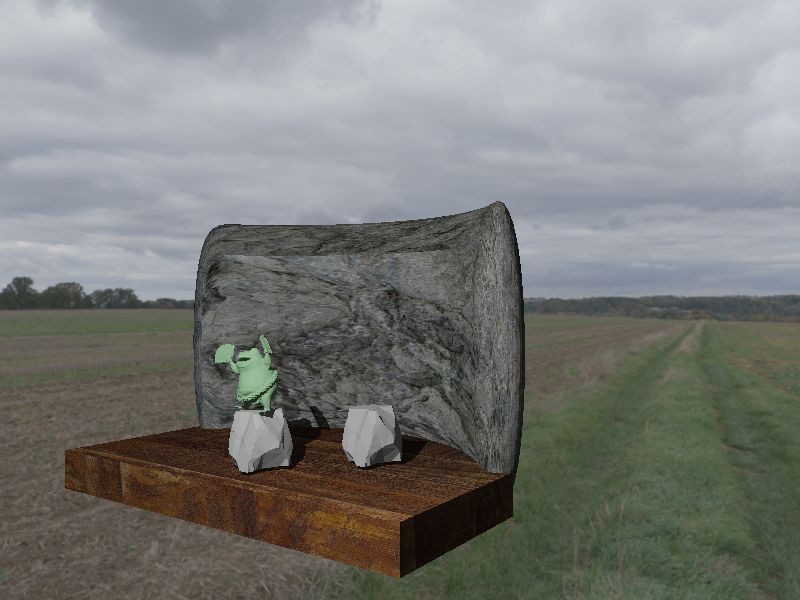
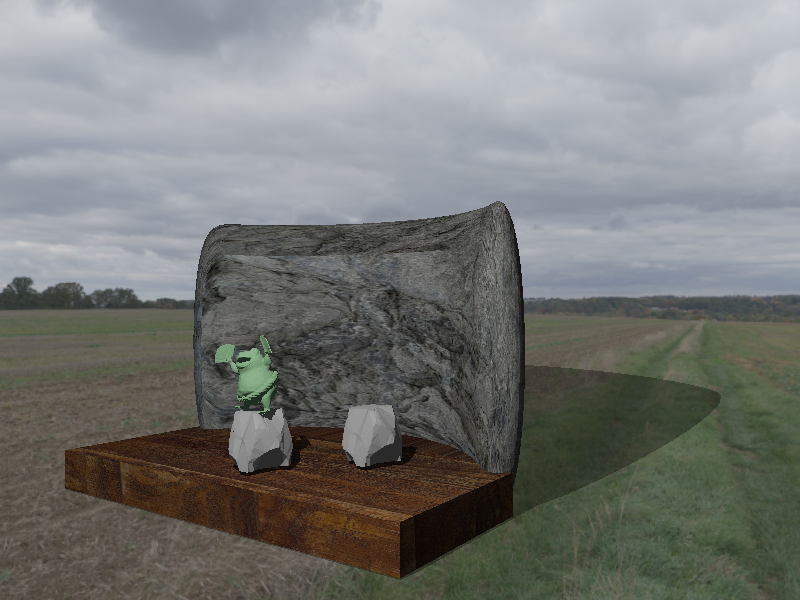
made stage look realistic with shadows

diff --git a/src/RayTracer.cpp b/src/RayTracer.cpp
@@ -48,6 +48,16 @@ bool RayTracer::isOccluded(const RTScene& scene, const glm::vec3& p, const glm::
   return intersectScene(scene, ro, rd, h, distToL - 1e-3f);
 }
 
+static bool intersectPlaneY(const glm::vec3& ro, const glm::vec3& rd, float y, float& tOut) {
+  float denom = rd.y;
+  if (std::abs(denom) < 1e-6f) return false;
+  float t = (y - ro.y) / denom;
+  if (t <= 1e-4f) return false;
+  tOut = t;
+  return true;
+}
+
+
 std::vector<glm::vec3> RayTracer::render(const RTScene& scene, const RTCamera& cam, const RTLight& light) const {
   std::vector<glm::vec3> img(_w * _h, glm::vec3(0));
 
@@ -59,6 +69,7 @@ std::vector<glm::vec3> RayTracer::render(const RTScene& scene, const RTCamera& c
       float px = ( (x + 0.5f) / float(_w) ) * 2.f - 1.f;
       float py = 1.f - ( (y + 0.5f) / float(_h) ) * 2.f;
 
+
       px *= cam.aspect * tanHalf;
       py *= tanHalf;
 
@@ -67,11 +78,93 @@ std::vector<glm::vec3> RayTracer::render(const RTScene& scene, const RTCamera& c
       glm::vec3 rd = glm::normalize(glm::vec3(cam.invView * glm::vec4(dirCam, 0.f)));
       glm::vec3 ro = cam.pos;
 
-      Hit hit;
+      // Hit hit;
+      // glm::vec3 col = background(rd);
+
+      // if (intersectScene(scene, ro, rd, hit, 1e30f)) {
+      //   const RTMaterial& mat = scene.mats[std::max(0, hit.matId)];
+
+      //   glm::vec3 Lvec = light.position - hit.p;
+      //   float dist2 = glm::dot(Lvec, Lvec);
+      //   float dist  = std::sqrt(dist2);
+      //   glm::vec3 wi = Lvec / std::max(dist, 1e-6f);
+
+      //   float ndotl = std::max(0.f, glm::dot(hit.n, wi));
+
+      //   float atten = 1.0f / std::max(dist2, 1e-4f);
+
+      //   glm::vec3 Li = light.color * (light.intensity * atten);
+
+      //   float vis = isOccluded(scene, hit.p, hit.n, light.position) ? 0.f : 1.f;
+
+      //   glm::vec3 albedo = mat.albedo;
+      //   if (mat.useTexture && mat.texId >= 0) {
+      //       albedo *= scene.textures[mat.texId].sample(hit.uv);
+      //   }
+      //   // small ambient to avoid pure black (temporary; later replaced by env lighting)
+      //   glm::vec3 ambient = 0.03f * albedo;
+
+      //   col = ambient + albedo * Li * ndotl * vis;
+
+      // }
+
+      // img[y * _w + x] = col;
+
+    // }
+
+      int pix = y * _w + x;
+
       glm::vec3 col = background(rd);
 
-      if (intersectScene(scene, ro, rd, hit, 1e30f)) {
-        const RTMaterial& mat = scene.mats[std::max(0, hit.matId)];
+      Hit hitTri;
+      bool hitScene = intersectScene(scene, ro, rd, hitTri, 1e30f);
+
+      float groundY = -1.925f;
+      float tPlane;
+      bool hitPlane = intersectPlaneY(ro, rd, groundY, tPlane);
+
+      if (!hitScene && !hitPlane) {
+        img[pix] = col;
+        continue;
+      }
+
+      Hit hit;
+      bool hitIsPlane = false;
+
+      if (hitPlane && (!hitScene || tPlane < hitTri.t)) {
+        hitIsPlane = true;
+        hit.t = tPlane;
+        hit.p = ro + tPlane * rd;
+        hit.n = glm::vec3(0,1,0);
+        hit.uv = glm::vec2(0.0f);
+        hit.matId = -1;
+      } else {
+        hit = hitTri;
+      }
+
+      if (hitIsPlane) {
+        if (rd.y >= 0.0f) {
+          img[pix] = background(rd);
+          continue;
+        }
+
+        glm::vec3 bg = background(rd);
+
+        bool occ = isOccluded(scene, hit.p, hit.n, light.position);
+        float vis = occ ? 0.0f : 1.0f;
+
+        float strength = 0.6f;
+        float factor = 1.0f - strength * (1.0f - vis);
+
+        img[pix] = bg * factor;
+        continue;
+        // float vis = isOccluded(scene, hit.p, hit.n, light.position) ? 0.0f : 1.0f;
+        // img[pix] = glm::vec3(vis); // white=lit, black=shadow
+        // continue;
+      }
+
+      {
+        const RTMaterial& mat = scene.mats[hit.matId];
 
         glm::vec3 Lvec = light.position - hit.p;
         float dist2 = glm::dot(Lvec, Lvec);
@@ -79,28 +172,24 @@ std::vector<glm::vec3> RayTracer::render(const RTScene& scene, const RTCamera& c
         glm::vec3 wi = Lvec / std::max(dist, 1e-6f);
 
         float ndotl = std::max(0.f, glm::dot(hit.n, wi));
-
         float atten = 1.0f / std::max(dist2, 1e-4f);
-
         glm::vec3 Li = light.color * (light.intensity * atten);
 
         float vis = isOccluded(scene, hit.p, hit.n, light.position) ? 0.f : 1.f;
 
         glm::vec3 albedo = mat.albedo;
         if (mat.useTexture && mat.texId >= 0) {
-            albedo *= scene.textures[mat.texId].sample(hit.uv);
+          albedo *= scene.textures[mat.texId].sample(hit.uv);
         }
-        // small ambient to avoid pure black (temporary; later replaced by env lighting)
-        glm::vec3 ambient = 0.03f * albedo;
 
+        glm::vec3 ambient = 0.03f * albedo;
         col = ambient + albedo * Li * ndotl * vis;
 
+        img[pix] = col;
       }
-
-      img[y * _w + x] = col;
-
     }
   }
+
   return img;
 }
 

diff --git a/src/main.cpp b/src/main.cpp
@@ -74,7 +74,6 @@ float g_appTimer = 0.0;
 float g_appTimerLastColckTime;
 bool g_appTimerStoppedP = true;
 
-// TODO: textures
 unsigned int g_availableTextureSlot = 0;
 
 //sky view
@@ -304,7 +303,6 @@ struct Scene {
   {
 
     //<<<<<<<<<<<<<<<<<<<<<<<<<<<<<<<<<<<<<<<<<<<<<<<<<<<<<<<<<<<<<<<<<<<<<<<<<<
-    // TODO: first, render the shadow maps
     glEnable(GL_CULL_FACE);
 
     // shadomMapShader->use();
@@ -313,7 +311,6 @@ struct Scene {
     //   light.setupCameraForShadowMapping(shadomMapShader, scene_center, scene_radius*1.5f);
     //   light.bindShadowMap();
 
-    //   // TODO: render the objects in the scene
 
     //   if(saveShadowMapsPpm) {
     //     light.shadowMap.savePpmFile(std::string("shadom_map_")+std::to_string(i)+std::string(".ppm"));
@@ -324,7 +321,6 @@ struct Scene {
     //>>>>>>>>>>>>>>>>>>>>>>>>>>>>>>>>>>>>>>>>>>>>>>>>>>>>>>>>>>>>>>>>>>>>>>>>>>
 
     //<<<<<<<<<<<<<<<<<<<<<<<<<<<<<<<<<<<<<<<<<<<<<<<<<<<<<<<<<<<<<<<<<<<<<<<<<<
-    // TODO: second, render the scene
     glBindFramebuffer(GL_FRAMEBUFFER, 0);
     glViewport(0, 0, g_windowWidth, g_windowHeight);
     glClear(GL_COLOR_BUFFER_BIT | GL_DEPTH_BUFFER_BIT); // Erase the color and z buffers.
@@ -379,7 +375,7 @@ struct Scene {
 
 
     // back-wall
-    mainShader->set("material.albedo", glm::vec3(0.29, 0.51, 0.82)); // default value if the texture was not loaded
+    mainShader->set("material.albedo", glm::vec3(0.29, 0.51, 0.82));
     mainShader->set("modelMat", backRockMat);
     mainShader->set("normMat", glm::mat3(glm::inverseTranspose(backRockMat)));
 
@@ -416,9 +412,7 @@ struct Scene {
       mainShader->set("material.albedo", glm::vec3(0.6f, 0.6f, 0.6f));
       mainShader->set("modelMat", M);
       mainShader->set("normMat", glm::mat3(glm::inverseTranspose(M)));
-      // glDisable(GL_CULL_FACE);
       rock->render();
-      // glEnable(GL_CULL_FACE);
     };
     drawRock(rockMat1);
     drawRock(rockMat2);
@@ -701,7 +695,6 @@ void initScene(const std::string &meshFilename)
     g_scene.frogMat = stageTranslate * glm::translate(glm::mat4(1.0f), glm::vec3(-1.2f, -0.46f, 1.95f)) * frogRotate * glm::scale(glm::mat4(1.0f), glm::vec3(0.015f));
   }
 
-  // TODO: Load and setup textures
   GLuint back_rockTex = loadTextureFromFileToGPU("data/rock_back_texture.png");
   g_scene.back_rockTexture = back_rockTex;
 
@@ -741,7 +734,7 @@ void initScene(const std::string &meshFilename)
   g_scene.lights.push_back(Light());
   Light &L = g_scene.lights[0];
 
-  L.position  = glm::vec3(-2.0f, 1.1f, -3.5f);
+  L.position  = glm::vec3(-2.0f, 2.1f, -3.5f);
   L.color     = glm::vec3(1.0f, 1.0f, 1.0f);
   L.intensity = 1.0f;
 
@@ -898,6 +891,14 @@ int main(int argc, char **argv)
       rt.mats.back().useTexture = false;
       rt.mats.back().texId = -1;
 
+      // ground
+      int matGround = (int)rt.mats.size();
+      rt.mats.push_back(RTMaterial());
+      rt.mats.back().albedo = glm::vec3(1.0f);
+      rt.mats.back().shadowCatcher = true;
+      rt.mats.back().useTexture = false;
+      rt.mats.back().texId = -1;
+
       appendMeshToRTScene(rt, *g_scene.back_rock, g_scene.backRockMat, matWall);
       appendMeshToRTScene(rt, *g_scene.stage, g_scene.stageMat, matStage);
       appendMeshToRTScene(rt, *g_scene.rock, g_scene.rockMat1, matRock);
@@ -916,7 +917,7 @@ int main(int argc, char **argv)
       glm::vec3 forward = -glm::vec3(invV[2]);
 
       RTLight L;
-      L.position  = cam.pos + (-1.5f)*right + (1.1f)*up + (3.0f)*forward;
+      L.position  = cam.pos + (-1.5f)*right + (2.1f)*up + (3.0f)*forward;
       L.color     = glm::vec3(1.f);
       L.intensity = 20.0f;
       
@@ -928,6 +929,7 @@ int main(int argc, char **argv)
       RayTracer tracer(W, H);
       tracer.setEnvMap(&env);
       tracer.buildBVH(rt);
+      tracer.setGround(-1.925f, matGround, 0.6f);
 
       auto pixels = tracer.render(rt, cam, L);
       RayTracer::savePPM("raytrace.ppm", pixels, W, H);

diff --git a/src/RayTracer.h b/src/RayTracer.h
@@ -11,7 +11,7 @@ struct RTMaterial {
   glm::vec3 albedo = glm::vec3(0.8f);
   bool useTexture = false;
   int texId = -1;
-  bool shadowCatcher = false;
+  bool shadowCatcher = true;
 };
 
 struct RTTriangle {
@@ -54,10 +54,22 @@ public:
 
   void setEnvMap(const EnvMap* env) { _env = env; }
 
+  void setGround(float y, int matId, float strength=0.6f) {
+    groundY = y;
+    groundMatId = matId;
+    shadowStrength = strength;
+  }
+
+
 private:
   int _w = 0, _h = 0;
 
   const EnvMap* _env = nullptr;
+
+  float groundY = -0.55f;
+  int groundMatId = -1;
+  float shadowStrength = 0.6f;
+
 
   struct Hit {
     float t = 1e30f;
@@ -70,6 +82,11 @@ private:
   static bool intersectTriangle(const glm::vec3& ro, const glm::vec3& rd, const RTTriangle& tri, float& t, float& u, float& v);
 
   bool intersectScene(const RTScene& scene, const glm::vec3& ro, const glm::vec3& rd, Hit& hit, float tMaxLimit) const;
+
+  // static bool intersectPlaneY(const glm::vec3& ro, const glm::vec3& rd, float y, float& tOut);
+  
+
+  bool intersectBVH(const RTScene& scene, const glm::vec3& ro, const glm::vec3& rd, Hit& hit, float tMaxLimit) const;
 
   glm::vec3 background(const glm::vec3& rd) const;
 
@@ -98,9 +115,10 @@ private:
 
   static bool intersectAABB(const glm::vec3& ro, const glm::vec3& rd, const AABB& box, float& tminOut, float& tmaxOut);
 
+
+
   int buildBVHRecursive(const RTScene& scene, int start, int count);
   
-  bool intersectBVH(const RTScene& scene, const glm::vec3& ro, const glm::vec3& rd, Hit& hit, float tMaxLimit) const;
-
+  
 
 };
